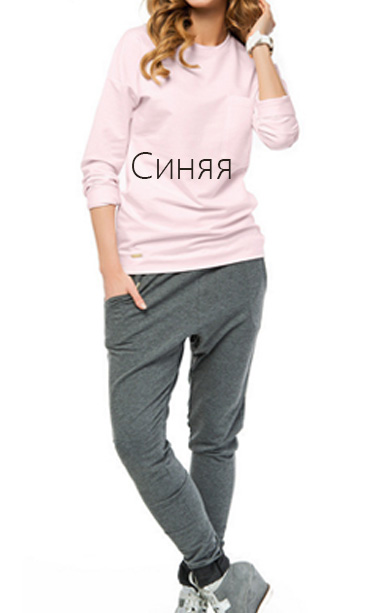
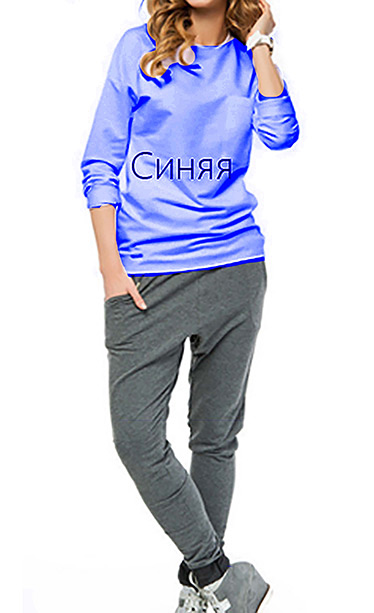
fixes

diff --git a/wear-item.html b/wear-item.html
@@ -1192,6 +1192,78 @@
 								 image:"img/goods/big/0001-03.jpg",
 								 zoomImage:"img/goods/xbig/0001-03.jpg"'>
 					</a>
+					<a href="img/goods/xbig/0001-01.jpg" class="wear-img__preview-item">
+						<img class="cloudzoom-gallery" src="img/goods/sml/0001-01.jpg"
+							 alt =""
+							 data-cloudzoom='
+								 useZoom:"#zoom1",
+								 image:"img/goods/big/0001-01.jpg",
+								 zoomImage:"img/goods/xbig/0001-01.jpg"'>
+					</a>
+					<a href="img/goods/xbig/0001-02.jpg" class="wear-img__preview-item">
+						<img class="cloudzoom-gallery" src="img/goods/sml/0001-02.jpg"
+							 alt =""
+							 data-cloudzoom='
+								 useZoom:"#zoom1",
+								 image:"img/goods/big/0001-02.jpg",
+								 zoomImage:"img/goods/xbig/0001-02.jpg"'>
+					</a>
+					<a href="img/goods/xbig/0001-03.jpg" class="wear-img__preview-item">
+						<img class="cloudzoom-gallery" src="img/goods/sml/0001-03.jpg"
+							 alt =""
+							 data-cloudzoom='
+								 useZoom:"#zoom1",
+								 image:"img/goods/big/0001-03.jpg",
+								 zoomImage:"img/goods/xbig/0001-03.jpg"'>
+					</a>
+					<a href="img/goods/xbig/0001-01.jpg" class="wear-img__preview-item">
+						<img class="cloudzoom-gallery" src="img/goods/sml/0001-01.jpg"
+							 alt =""
+							 data-cloudzoom='
+								 useZoom:"#zoom1",
+								 image:"img/goods/big/0001-01.jpg",
+								 zoomImage:"img/goods/xbig/0001-01.jpg"'>
+					</a>
+					<a href="img/goods/xbig/0001-02.jpg" class="wear-img__preview-item">
+						<img class="cloudzoom-gallery" src="img/goods/sml/0001-02.jpg"
+							 alt =""
+							 data-cloudzoom='
+								 useZoom:"#zoom1",
+								 image:"img/goods/big/0001-02.jpg",
+								 zoomImage:"img/goods/xbig/0001-02.jpg"'>
+					</a>
+					<a href="img/goods/xbig/0001-03.jpg" class="wear-img__preview-item">
+						<img class="cloudzoom-gallery" src="img/goods/sml/0001-03.jpg"
+							 alt =""
+							 data-cloudzoom='
+								 useZoom:"#zoom1",
+								 image:"img/goods/big/0001-03.jpg",
+								 zoomImage:"img/goods/xbig/0001-03.jpg"'>
+					</a>
+					<a href="img/goods/xbig/0001-01.jpg" class="wear-img__preview-item">
+						<img class="cloudzoom-gallery" src="img/goods/sml/0001-01.jpg"
+							 alt =""
+							 data-cloudzoom='
+								 useZoom:"#zoom1",
+								 image:"img/goods/big/0001-01.jpg",
+								 zoomImage:"img/goods/xbig/0001-01.jpg"'>
+					</a>
+					<a href="img/goods/xbig/0001-02.jpg" class="wear-img__preview-item">
+						<img class="cloudzoom-gallery" src="img/goods/sml/0001-02.jpg"
+							 alt =""
+							 data-cloudzoom='
+								 useZoom:"#zoom1",
+								 image:"img/goods/big/0001-02.jpg",
+								 zoomImage:"img/goods/xbig/0001-02.jpg"'>
+					</a>
+					<a href="img/goods/xbig/0001-03.jpg" class="wear-img__preview-item">
+						<img class="cloudzoom-gallery" src="img/goods/sml/0001-03.jpg"
+							 alt =""
+							 data-cloudzoom='
+								 useZoom:"#zoom1",
+								 image:"img/goods/big/0001-03.jpg",
+								 zoomImage:"img/goods/xbig/0001-03.jpg"'>
+					</a>
 				</div>
 				<div class="wear-img__big">
 					<img class="cloudzoom" alt="" id ="zoom1" src="img/goods/big/0001-01.jpg"
@@ -1210,26 +1282,38 @@
 				<div class="wear-descr__title">Брюки летние R546</div>
 				<div class="wear-descr__info">
 					<div class="wear-descr__info-text">
-						Модные брюки свободного покроя
+						Модные брюки свободного покроя<br>
 						Фирма : <b>Makadamia</b>
 					</div>
 					<div class="wear-descr__info-logo">
 						<img src="img/brands/0001.jpg" alt="">
 					</div>
 				</div>
-				<div class="wear-descr__color">
-					<div class="wear-descr__color-title">Цвет:</div>
-					<div class="wear-descr__color-list">
-						<span class="wear-descr__color-item active"><img src="img/goods/color/01.jpg" alt=""></span>
-						<span class="wear-descr__color-item"><img src="img/goods/color/02.jpg" alt=""></span>
-						<span class="wear-descr__color-item"><img src="img/goods/color/03.jpg" alt=""></span>
-						<span class="wear-descr__color-item"><img src="img/goods/color/04.jpg" alt=""></span>
-					</div>
-				</div>
 				<div class="wear-descr__price">1 650 руб.</div>
-				<div class="wear-descr__text">Цвет: <b>black</b></div>
+				<div class="wear-descr__color">
+					<div class="wear-descr__text">Выбирите цвет :</div>
+					<div class="wear-descr__color-list">
+						<span class="wear-descr__color-item active"><img src="img/goods/sml/0001-01.jpg" alt=""></span>
+						<span class="wear-descr__color-item"><img src="img/goods/sml/0001-02.jpg" alt=""></span>
+						<span class="wear-descr__color-item"><img src="img/goods/sml/0001-03.jpg" alt=""></span>
+						<span class="wear-descr__color-item"><img src="img/goods/sml/0001-01.jpg" alt=""></span>
+					</div>
+					<div class="wear-descr__text">Цвет : <b>beige</b></div>
+				</div>
+				<div class="wear-descr__text">Выбирите размер :</div>
 				<div class="wear-descr__size">
-					<select>
+
+					<div class="wear-descr__size-item">ВСЕ</div>
+					<div class="wear-descr__size-item active">36/170</div>
+					<div class="wear-descr__size-item">38/164</div>
+					<div class="wear-descr__size-item">38/170</div>
+					<div class="wear-descr__size-item disable">40/164</div>
+					<div class="wear-descr__size-item">40/170</div>
+					<div class="wear-descr__size-item active">42/164</div>
+					<div class="wear-descr__size-item">42/170</div>
+					<div class="wear-descr__size-item">38/164</div>
+
+					<!--<select>
 						<option>Выбрать размер</option>
 						<option>XS</option>
 						<option>S</option>
@@ -1237,7 +1321,7 @@
 						<option>L</option>
 						<option>XL</option>
 						<option>XXL</option>
-					</select>
+					</select>-->
 				</div>
 				<hr>
 				<!--<div class="wear-descr__text"><a href="#">Таблица размеров</a></div>-->

diff --git a/js/script.js b/js/script.js
@@ -457,6 +457,61 @@ $(function(){
 		}
 	});
 
+	$('.wear-img__preview').each(function(){
+		var $t = $(this);
+		var $slide = $t.find('.wear-img__preview-item');
+
+		if ( $slide.size() > 4 ){
+
+			$slide.wrapAll('<div class="wear-img__preview-wrap"></div>')
+				.end()
+				.find('.wear-img__preview-wrap')
+				.after('<div class="wear-img__preview-down"></div>')
+				.before('<div class="wear-img__preview-up disabled"></div>');
+
+			var $scroller = $t.find('.wear-img__preview-wrap');
+			var up = $t.find('.wear-img__preview-up');
+			var down = $t.find('.wear-img__preview-down');
+
+			$scroller.mCustomScrollbar({
+				mouseWheel: 'disable',
+				callbacks:{
+					whileScrolling:function(){
+						if ( this.mcs.topPct <= 0 ) {
+							up.addClass('disabled');
+						} else if ( this.mcs.topPct >= 100 ){
+							down.addClass('disabled');
+						} else {
+							up.add(down).removeClass('disabled');
+						}
+					}
+				},
+				scrollButtons:{enable:true},
+				advanced:{autoExpandHorizontalScroll:true},
+				scrollbarPosition:"outside"
+			});
+
+			up.on('click', function(){
+				$scroller.mCustomScrollbar('scrollTo','+=91',{scrollInertia:400});
+			});
+			down.on('click', function(){
+				$scroller.mCustomScrollbar('scrollTo','-=91',{scrollInertia:400});
+			});
+
+		}
+	});
+/*
+	$('body').on('click', '.wear-img__preview-up', function(){
+		var $scroller = $(this).closest('.wear-img__preview').find('.wear-img__preview-wrap');
+		$scroller.mCustomScrollbar('scrollTo','+=100');
+		console.log('1')
+	}).on('click', '.wear-img__preview-down', function(){
+		var $scroller = $(this).closest('.wear-img__preview').find('.wear-img__preview-wrap');
+		$scroller.mCustomScrollbar("scrollTo", '-=60');
+		console.log('2')
+	});
+*/
+
 	$('.prodcard-type__previews').each(function(){
 		var $t = $(this);
 		var $slide = $t.find('.prodcard-type__link');
@@ -474,6 +529,7 @@ $(function(){
 					nextText: "",
 					animation: "slide",
 					controlNav: false,
+					slideshow: false,
 					animationLoop: false,
 					itemWidth: 45,
 					move: 1,
@@ -482,26 +538,6 @@ $(function(){
 
 		}
 
-		if ( $slide.size() > 4 && !$t.hasClass('flexslider') ){
-			$t.addClass('flexslider')
-				.find('.prodcard-type__link')
-				.wrapAll('<ul class="slides"></ul>')
-				.end()
-				.find('.prodcard-type__link')
-				.wrap('<li></li>')
-				.end()
-				.flexslider({
-					prevText: "",
-					nextText: "",
-					animation: "slide",
-					controlNav: false,
-					animationLoop: false,
-					itemWidth: 45,
-					move: 1,
-					itemMargin: 0
-				});
-
-		}
 	});
 
 	$('select').not('.input_autocomplete__select').selectbox({effect: "fade"});

diff --git a/css/main.css b/css/main.css
@@ -754,9 +754,20 @@
 	height: 80px;
 	/*border: 1px solid #fff;*/
 	cursor: pointer;
-	margin: 5px;
+	margin: 10px 5px;
 	display: block;
 }
+
+.wear-img__preview-wrap{
+	width: 60px;
+	max-height: 545px;
+	overflow: hidden;
+}
+.wear-img__preview-wrap .mCSB_scrollTools {
+	position: absolute;
+	left: -9999px;
+}
+.wear-img__preview-wrap .mCSB_container {margin: 0!important;}
 .wear-img__preview-item.active,
 .wear-img__preview-item:hover{
 	width: 50px;
@@ -764,8 +775,23 @@
 	/*border-color: #d4d3d1;*/
 }
 .wear-img__preview-item img{
-	height: 100%;
+	height: 100%!important;
+	-webkit-box-sizing: border-box;
+	-moz-box-sizing: border-box;
+	box-sizing: border-box;
 }
+.wear-img__preview-up,
+.wear-img__preview-down{
+	width: 60px;
+	height: 20px;
+	cursor: pointer;
+}
+.wear-img__preview-up.disabled,
+.wear-img__preview-down.disabled{
+	opacity: 0.2;
+}
+.wear-img__preview-up{background: url("../img/global/drop-arrow_up.png") no-repeat 50% 50%;}
+.wear-img__preview-down{background: url("../img/global/drop-arrow_down.png") no-repeat 50% 50%;}
 .wear-img__big{
 	display: table-cell;
 	vertical-align: middle;
@@ -791,22 +817,26 @@
 .wear-descr__color{
 	border-top: 1px solid #a9a6a3;
 	border-bottom: 1px solid #a9a6a3;
-	padding: 17px 0;
+	padding: 5px 0;
 	overflow: hidden;
 }
 .wear-descr__color-title{
 	float: left;
 }
 .wear-descr__color-list{
-	margin-left: 45px;
+	/*margin-left: 45px;*/
 }
 .wear-descr__color-item{
 	display: inline-block;
-	width: 68px;
-	height: 68px;
-	border: 1px solid #d4d3d1;
+	width: 50px;
+	height: 80px;
+	border: 1px solid #fff;
 	margin: 3px;
 	cursor: pointer;
+}
+.wear-descr__color-item img{
+	width: 100%;
+	height: 100%;
 }
 .wear-descr__color-item:hover,
 .wear-descr__color-item.active{
@@ -829,6 +859,7 @@
 }
 .wear-descr__price{
 	font-size: 30px;
+	margin-bottom: 20px;
 }
 .wear-descr__text{
 	text-decoration: none;
@@ -863,6 +894,31 @@
 	opacity: 1;
 
 }
+
+.wear-descr__size-item{
+	display: inline-block;
+	border: 1px solid #282119;
+	padding: 5px 3px;
+	margin: 0 6px 9px 0;
+	text-align: center;
+	min-width:42px;
+	letter-spacing: -0.5px;
+	cursor: pointer;
+	text-decoration: none!important;
+}
+
+.wear-descr__size-item:hover,
+.wear-descr__size-item.active{
+	background: #282119;
+	color: #fff;
+}
+.wear-descr__size-item.disable{
+	background: none;
+	border-color: #c8c7c3;
+	color: #c8c7c3;
+	cursor: default;
+}
+
 
 
 .wear-descr hr{

diff --git a/css/cloudzoom.css b/css/cloudzoom.css
@@ -40,5 +40,5 @@
 	border: 1px solid transparent;
 }
 .cloudzoom-gallery-active{
-	border-color: #d4d3d1;
+	border-color: #282119;
 }
